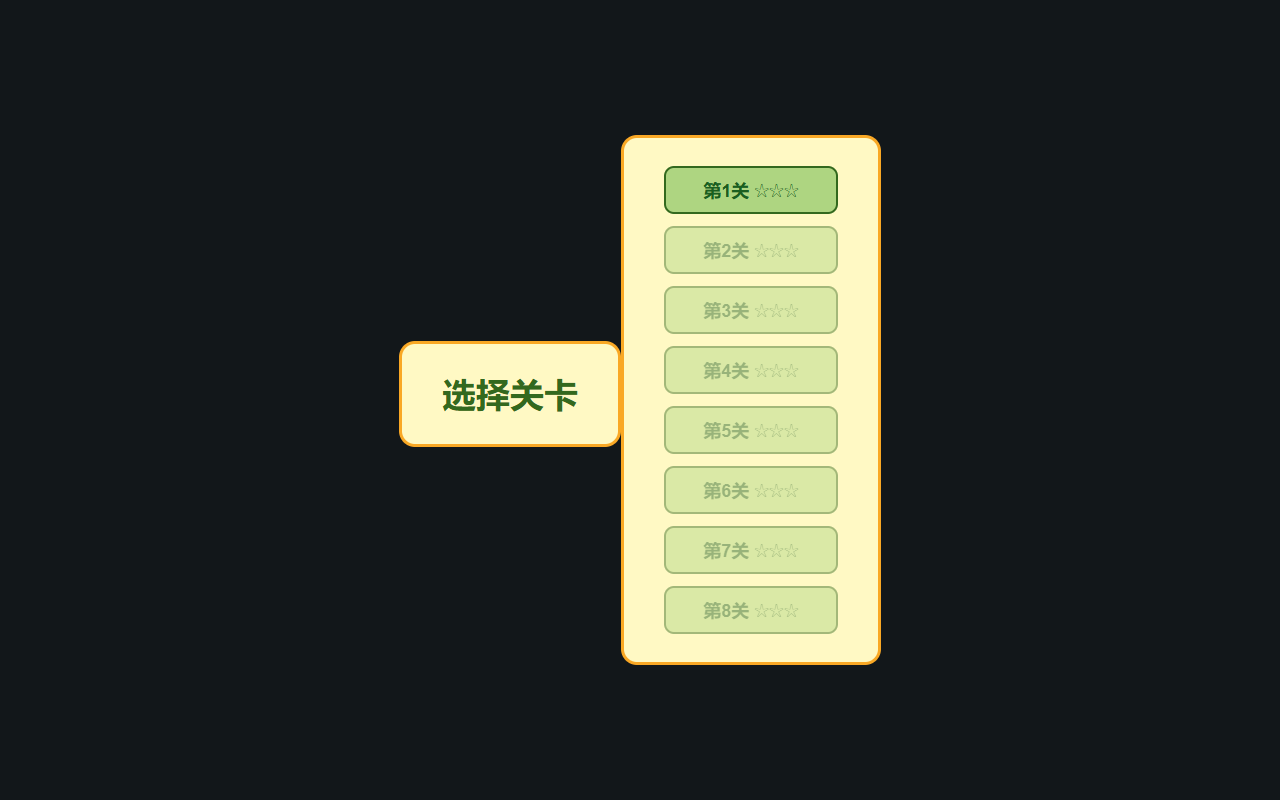
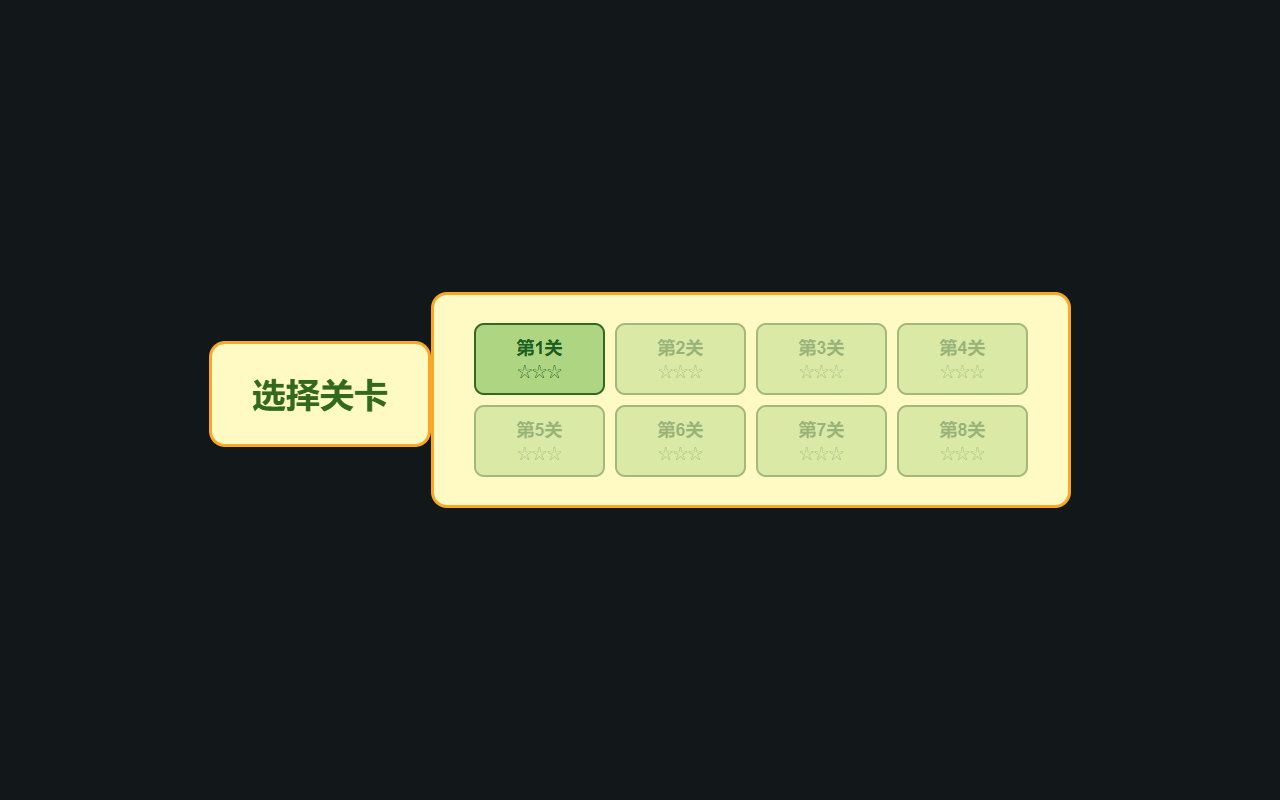
feat: mobile touch support via pointer events, landscape rotate hint, adaptive grab radius

Changed region(s): [[0.1562, 0.1562, 0.8438, 0.8438]]

diff --git a/tests/input.test.js b/tests/input.test.js
@@ -1,0 +1,49 @@
+// @vitest-environment jsdom
+import { describe, it, expect, vi } from 'vitest';
+import { createInput } from '../src/input.js';
+
+function fire(target, type, x, y) {
+  const E = globalThis.PointerEvent || MouseEvent;
+  const ev = new E(type, { bubbles: true, clientX: x, clientY: y });
+  target.dispatchEvent(ev);
+}
+
+describe('createInput (pointer events: mouse + touch)', () => {
+  it('maps pointer coordinates through toWorld and fires handlers', () => {
+    const canvas = document.createElement('canvas');
+    document.body.appendChild(canvas);
+    const toWorld = vi.fn((p) => p);
+    const handlers = { onDown: vi.fn(), onMove: vi.fn(), onUp: vi.fn() };
+    const input = createInput(canvas, toWorld, handlers);
+
+    fire(canvas, 'pointerdown', 10, 20);
+    expect(handlers.onDown).toHaveBeenCalledWith({ x: 10, y: 20 });
+
+    fire(globalThis, 'pointermove', 30, 40);
+    expect(handlers.onMove).toHaveBeenCalledWith({ x: 30, y: 40 });
+
+    fire(globalThis, 'pointerup', 50, 60);
+    expect(handlers.onUp).toHaveBeenCalledWith({ x: 50, y: 60 });
+
+    input.destroy();
+  });
+
+  it('fires onUp on pointercancel so a drag never dangles', () => {
+    const canvas = document.createElement('canvas');
+    const handlers = { onDown: vi.fn(), onMove: vi.fn(), onUp: vi.fn() };
+    const input = createInput(canvas, (p) => p, handlers);
+    fire(canvas, 'pointerdown', 1, 1);
+    fire(globalThis, 'pointercancel', 2, 2);
+    expect(handlers.onUp).toHaveBeenCalled();
+    input.destroy();
+  });
+
+  it('destroy removes listeners', () => {
+    const canvas = document.createElement('canvas');
+    const handlers = { onDown: vi.fn(), onMove: vi.fn(), onUp: vi.fn() };
+    const input = createInput(canvas, (p) => p, handlers);
+    input.destroy();
+    fire(canvas, 'pointerdown', 9, 9);
+    expect(handlers.onDown).not.toHaveBeenCalled();
+  });
+});

diff --git a/index.html b/index.html
@@ -2,7 +2,7 @@
 <html lang="zh-CN">
   <head>
     <meta charset="UTF-8" />
-    <meta name="viewport" content="width=device-width, initial-scale=1.0" />
+    <meta name="viewport" content="width=device-width, initial-scale=1.0, maximum-scale=1, user-scalable=no, viewport-fit=cover" />
     <title>愤怒的小鸟风格 · 物理弹弓</title>
     <style>
       * { box-sizing: border-box; }
@@ -17,6 +17,21 @@
         display: block;
         width: 100vw;
         height: 100vh;
+        touch-action: none; /* keep pointer gestures on the canvas: no scroll/zoom stealing drags */
+      }
+      .rotate-hint {
+        position: fixed;
+        inset: 0;
+        display: none;
+        align-items: center;
+        justify-content: center;
+        background: #263238ee;
+        color: #FFF9C4;
+        font-size: 28px;
+        font-weight: 700;
+        letter-spacing: 2px;
+        z-index: 30;
+        pointer-events: none;
       }
       #hud {
         position: fixed;
@@ -69,13 +84,19 @@
         gap: 12px;
         justify-content: center;
       }
+      .hud-overlay > * {
+        max-height: 92vh;
+        overflow: auto;
+      }
       .hud-levels {
-        display: flex;
-        flex-direction: column;
-        gap: 12px;
+        display: grid;
+        grid-template-columns: repeat(auto-fit, minmax(120px, 1fr));
+        gap: 10px;
         min-width: 260px;
+        max-width: 640px;
       }
       .hud-btn {
+        min-height: 44px; /* comfortable touch target */
         font-size: 18px;
         padding: 10px 22px;
         border: 2px #33691E solid;

diff --git a/src/input.js b/src/input.js
@@ -1,19 +1,27 @@
 export function createInput(canvas, toWorld, handlers) {
-  const rectPoint = (e) => {
+  // Pointer Events unify mouse, touch and pen — mobile touch never fired
+  // the old mouse listeners reliably.
+  const pt = (e) => {
     const rect = canvas.getBoundingClientRect();
     return toWorld({ x: e.clientX - rect.left, y: e.clientY - rect.top });
   };
-  const onDown = (e) => handlers.onDown(rectPoint(e));
-  const onMove = (e) => handlers.onMove(rectPoint(e));
-  const onUp = (e) => handlers.onUp(rectPoint(e));
-  canvas.addEventListener('mousedown', onDown);
-  globalThis.addEventListener?.('mousemove', onMove);
-  globalThis.addEventListener?.('mouseup', onUp);
+  const down = (e) => {
+    e.preventDefault?.();
+    handlers.onDown(pt(e));
+  };
+  const move = (e) => handlers.onMove(pt(e));
+  const up = (e) => handlers.onUp(pt(e));
+
+  canvas.addEventListener('pointerdown', down);
+  globalThis.addEventListener('pointermove', move);
+  globalThis.addEventListener('pointerup', up);
+  globalThis.addEventListener('pointercancel', up);
   return {
     destroy() {
-      canvas.removeEventListener('mousedown', onDown);
-      globalThis.removeEventListener?.('mousemove', onMove);
-      globalThis.removeEventListener?.('mouseup', onUp);
+      canvas.removeEventListener('pointerdown', down);
+      globalThis.removeEventListener('pointermove', move);
+      globalThis.removeEventListener('pointerup', up);
+      globalThis.removeEventListener('pointercancel', up);
     },
   };
 }

diff --git a/src/game.js b/src/game.js
@@ -5,10 +5,16 @@ import { createBird, launchBird } from './bird.js';
 import { applyImpact, isDestroyed } from './blocks.js';
 import { applyPigImpact } from './pig.js';
 import { createGame, reduce } from './gameState.js';
-import { computePull, computeLaunchVelocity, shouldLaunch, isWithinGrabRadius } from './slingshot.js';
+import {
+  computePull,
+  computeLaunchVelocity,
+  shouldLaunch,
+  isWithinGrabRadius,
+  adaptiveGrabRadius,
+} from './slingshot.js';
 import { createRenderer } from './render.js';
 import { createInput } from './input.js';
-import { SLING, SETTLE } from './config.js';
+import { SLING, SETTLE, WORLD } from './config.js';
 
 export function isSettleDue(settleMs, now, launchAt, settle = SETTLE) {
   if (settleMs >= settle.durationMs) return true;
@@ -170,7 +176,11 @@ export class Game {
 
   onDown(pt) {
     if (this.state.phase !== 'aiming' || !this.bird) return;
-    if (!isWithinGrabRadius(pt, this.bird.position, SLING.grabRadius)) return;
+    const cssW = this.canvas.clientWidth || this.canvas.width;
+    const cssH = this.canvas.clientHeight || this.canvas.height;
+    const scale = Math.min(cssW / WORLD.width, cssH / WORLD.height) || 1;
+    const grab = adaptiveGrabRadius(SLING.grabRadius, scale);
+    if (!isWithinGrabRadius(pt, this.bird.position, grab)) return;
     this.dispatch({ type: 'DRAG_START' });
     this.pull = computePull(SLING.anchor, pt, SLING.maxPull);
     // move the bird immediately so band/aim ray and body agree on grab

diff --git a/tests/ui.test.js b/tests/ui.test.js
@@ -1,6 +1,6 @@
 // @vitest-environment jsdom
 import { describe, it, expect, vi } from 'vitest';
-import { createHud } from '../src/ui.js';
+import { createHud, shouldShowRotateHint } from '../src/ui.js';
 
 describe('hud', () => {
   it('result overlay wires restart and next', () => {
@@ -51,5 +51,24 @@ describe('hud', () => {
     expect(onToggleMute).toHaveBeenCalled();
     hud.renderTopBar({ birdsLeft: 2, levelIndex: 0, muted: true });
     expect(root.querySelector('[data-testid="btn-mute"]').textContent).toContain('关');
+  });
+
+  // landscape guidance: portrait shows a rotate hint, landscape hides it
+  it('shouldShowRotateHint is true only in portrait', () => {
+    expect(shouldShowRotateHint(844, 390)).toBe(false); // landscape phone
+    expect(shouldShowRotateHint(390, 844)).toBe(true); // portrait phone
+    expect(shouldShowRotateHint(1280, 800)).toBe(false); // desktop
+  });
+
+  it('rotate hint toggles visibility', () => {
+    const root = document.createElement('div');
+    const hud = createHud(root, { onRestart: vi.fn(), onNext: vi.fn(), onSelectLevel: vi.fn() });
+    hud.showRotateHint(true);
+    const hint = root.querySelector('[data-testid="rotate-hint"]');
+    expect(hint).toBeTruthy();
+    expect(hint.textContent).toContain('横屏');
+    expect(hint.style.display).not.toBe('none');
+    hud.showRotateHint(false);
+    expect(hint.style.display).toBe('none');
   });
 });

diff --git a/tests/slingshot.test.js b/tests/slingshot.test.js
@@ -1,5 +1,11 @@
 import { describe, it, expect } from 'vitest';
-import { computePull, computeLaunchVelocity, shouldLaunch, isWithinGrabRadius } from '../src/slingshot.js';
+import {
+  computePull,
+  computeLaunchVelocity,
+  shouldLaunch,
+  isWithinGrabRadius,
+  adaptiveGrabRadius,
+} from '../src/slingshot.js';
 
 const anchor = { x: 220, y: 620 };
 
@@ -25,5 +31,14 @@ describe('slingshot', () => {
   it('grab radius check', () => {
     expect(isWithinGrabRadius({ x: 250, y: 620 }, anchor, 60)).toBe(true);
     expect(isWithinGrabRadius({ x: 400, y: 620 }, anchor, 60)).toBe(false);
+  });
+
+  // fingers need a bigger on-screen target than the mouse: keep the
+  // grab radius at >= minScreenPx CSS pixels when the view is scaled down
+  it('adaptive grab radius grows on small screens, stays 60 on desktop', () => {
+    expect(adaptiveGrabRadius(60, 1)).toBe(60); // desktop scale
+    const phone = adaptiveGrabRadius(60, 0.43); // landscape phone letterbox
+    expect(phone).toBeCloseTo(48 / 0.43, 5); // ~112 world px
+    expect(phone).toBeGreaterThan(60);
   });
 });

diff --git a/src/main.js b/src/main.js
@@ -3,6 +3,7 @@ import { Game } from './game.js';
 import { createHud } from './ui.js';
 import { loadProgress, saveStars, isUnlocked, getStorage } from './progress.js';
 import { LEVELS } from './levels/index.js';
+import { shouldShowRotateHint } from './ui.js';
 
 const canvas = document.getElementById('game');
 const hudRoot = document.getElementById('hud');
@@ -84,5 +85,12 @@ if (import.meta.env.DEV) {
   window.__game = () => game;
   window.__app = { startLevel, showSelect, get progress() { return progress; } };
 }
+
+function syncOrientation() {
+  hud.showRotateHint(shouldShowRotateHint(window.innerWidth, window.innerHeight));
+}
+globalThis.addEventListener('resize', syncOrientation);
+globalThis.addEventListener('orientationchange', syncOrientation);
+syncOrientation();
 
 showSelect();

diff --git a/src/ui.js b/src/ui.js
@@ -1,6 +1,11 @@
+export function shouldShowRotateHint(width, height) {
+  return height > width;
+}
+
 export function createHud(root, { onRestart, onNext, onSelectLevel, onToggleMute = () => {} }) {
   let topBar = null;
   let overlay = null;
+  let rotateHint = null;
 
   function clearOverlay() {
     if (overlay) overlay.remove();
@@ -94,6 +99,14 @@ export function createHud(root, { onRestart, onNext, onSelectLevel, onToggleMute
 
     hideOverlays() {
       clearOverlay();
+    },
+
+    showRotateHint(show) {
+      if (!rotateHint) {
+        rotateHint = el('div', { 'data-testid': 'rotate-hint', class: 'rotate-hint' }, '↻ 请横屏游玩');
+        root.appendChild(rotateHint);
+      }
+      rotateHint.style.display = show ? 'flex' : 'none';
     },
   };
 }

diff --git a/src/slingshot.js b/src/slingshot.js
@@ -21,3 +21,7 @@ export function shouldLaunch(pull, minPull) {
 export function isWithinGrabRadius(point, birdPos, grabRadius) {
   return Math.hypot(point.x - birdPos.x, point.y - birdPos.y) <= grabRadius;
 }
+
+export function adaptiveGrabRadius(baseRadius, scale, minScreenPx = 48) {
+  return Math.max(baseRadius, minScreenPx / scale);
+}
